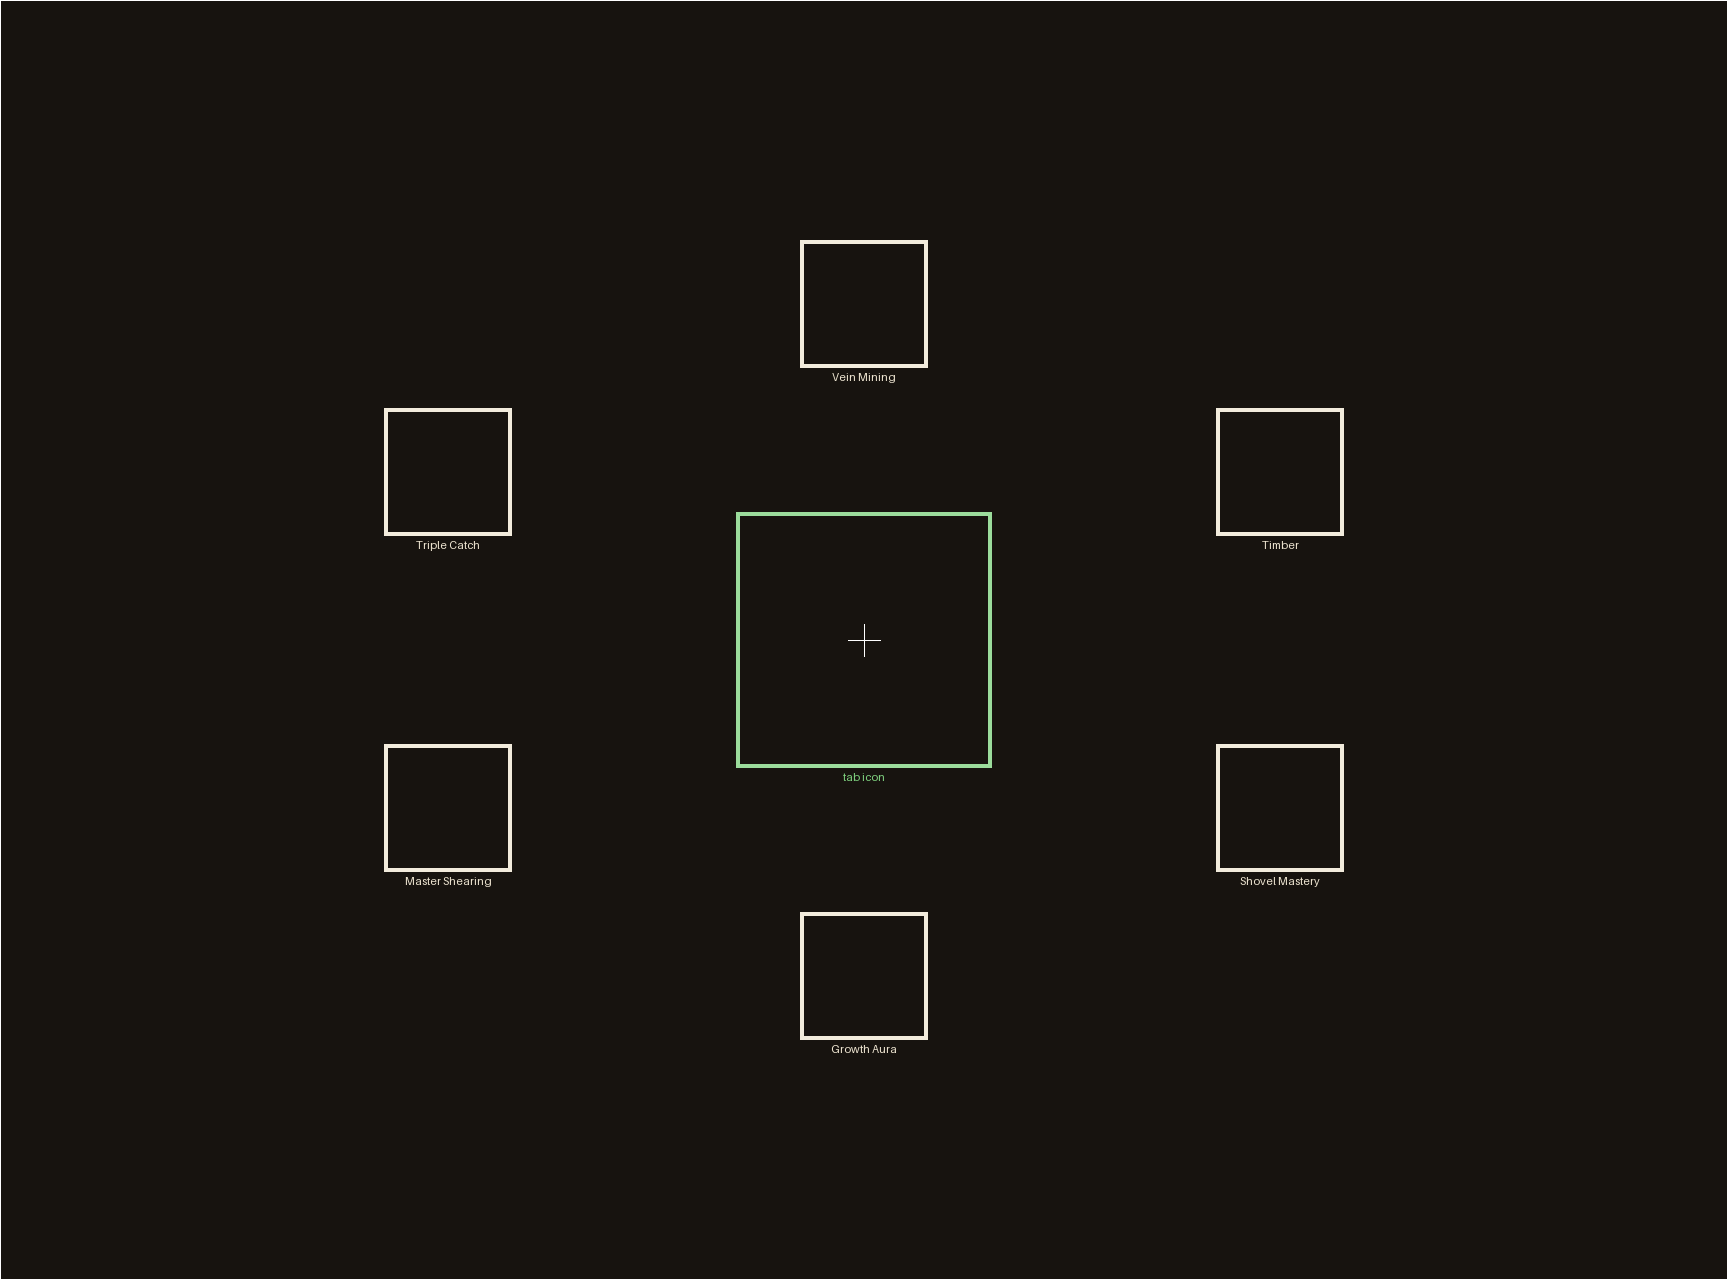
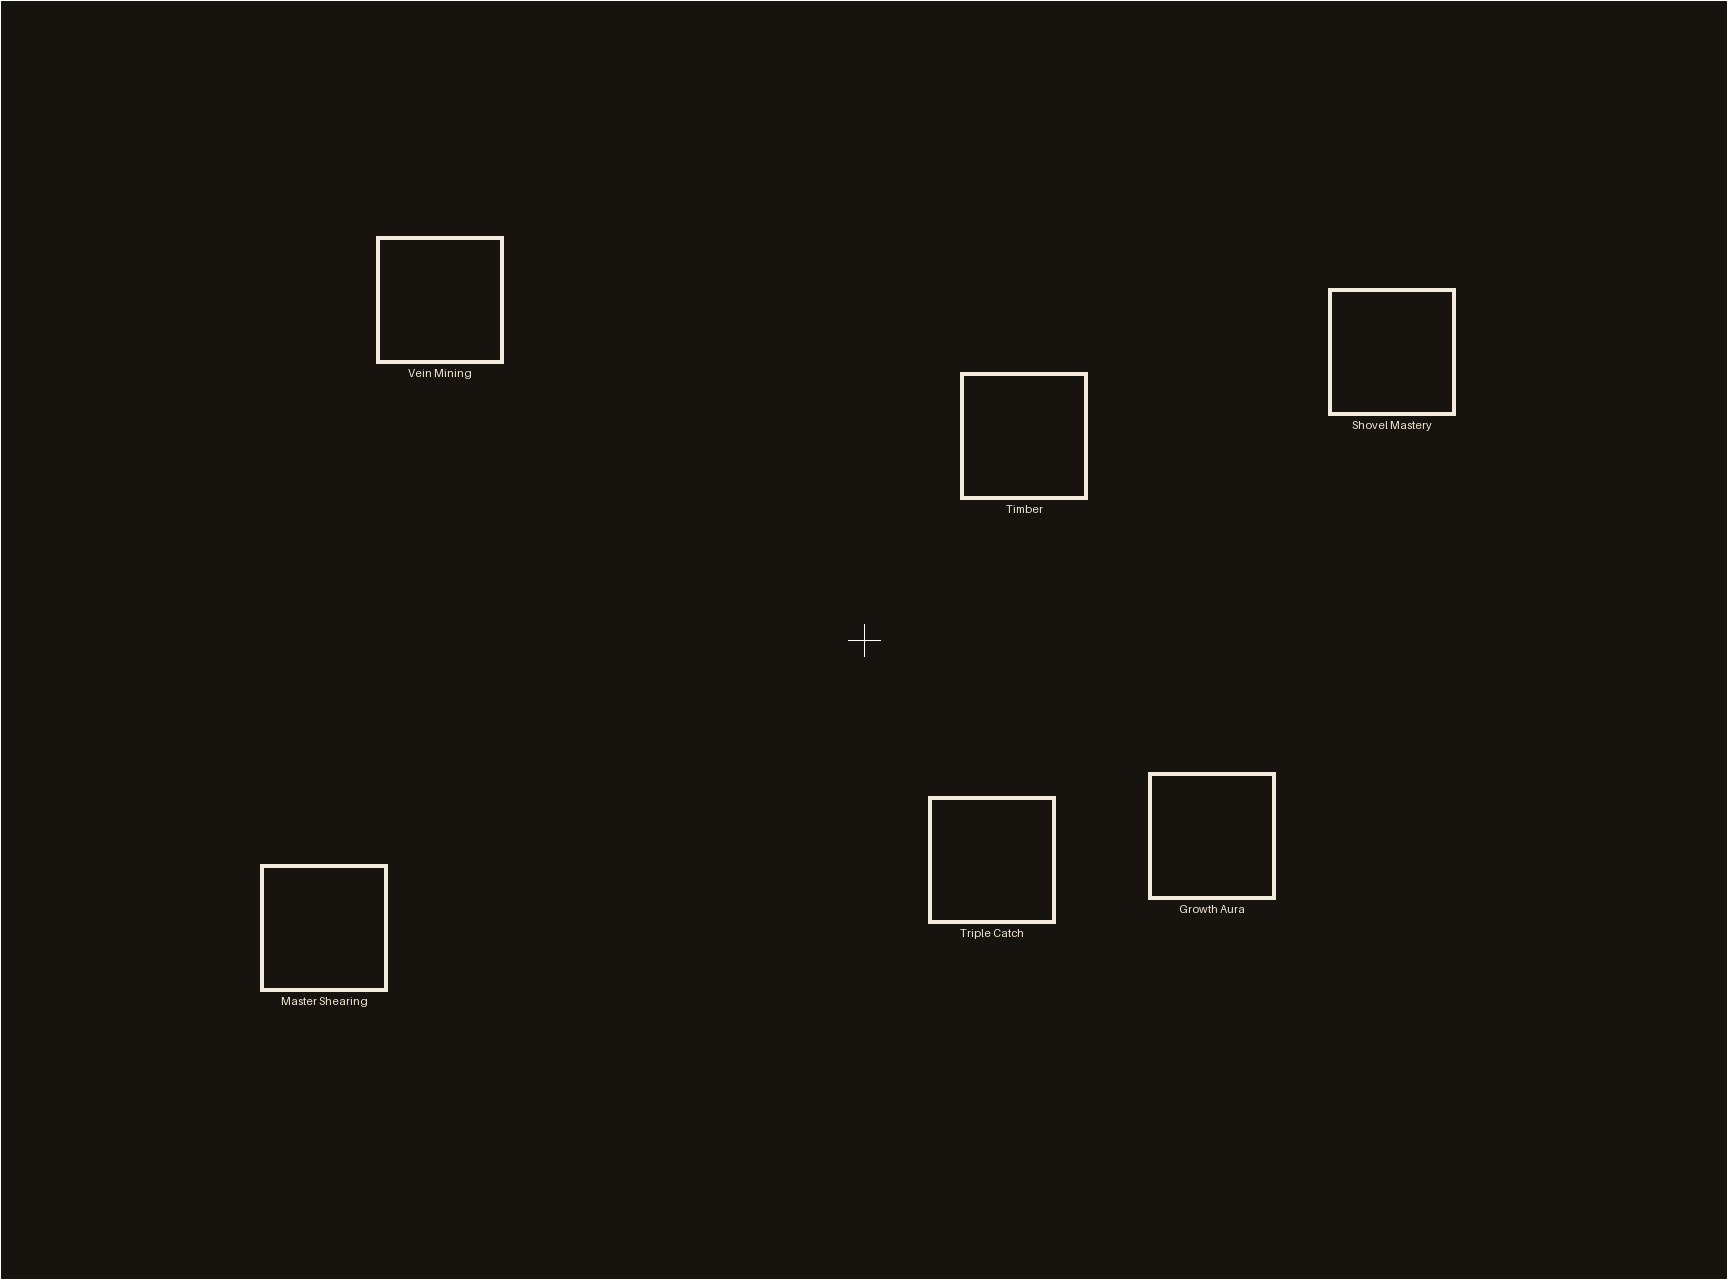
Hub: Utility/Armor/Misc Majors scattered over the page instead of a ring
Big icons spread over the whole 432x320 page: about one grid cell per Major,
spare cells spread out and shifted row to row, each Major nudged inside its cell
by an amount fixed by its id (stable, never overlapping). Templates redrawn.

Claude-Session: https://claude.ai/code/session_011H4pCWwvStbR6tnDaE5M5J

diff --git a/src/client/java/com/freshorangeslices/bloomlevelup/client/gui/HubScreen.java b/src/client/java/com/freshorangeslices/bloomlevelup/client/gui/HubScreen.java
@@ -55,7 +55,7 @@ import com.freshorangeslices.bloomlevelup.progression.ProgressionService;
  *   (Heavy Hands, Catch!, ...) on the line between the middle and that weapon, and the rest of the universal
  *   Majors in a row along the bottom. Lines run from the middle to each weapon and from each weapon to its
  *   Majors, and turn red when a Major on them is active;</li>
- *   <li>other categories put bigger icons in a ring around the category's own icon, filling the page.</li>
+ *   <li>other categories scatter bigger icons over the whole page.</li>
  * </ul>
  * A compact stats window sits in the top-left corner and folds away to give the Majors more room.
  *
@@ -105,10 +105,10 @@ public final class HubScreen extends Screen {
 	 */
 	public static final int BOARD_W = 432;
 	public static final int BOARD_H = 320;
-	/** Major icons on tabs without weapon trees: bigger (half the 64-pixel art, so they stay sharp) and in a ring. */
+	/** Major icons on tabs without weapon trees: bigger (half the 64-pixel art, so they stay sharp), scattered over the page. */
 	private static final int BIG_ICON = 32;
-	/** The tab's own icon in the middle of that ring. */
-	private static final int EMBLEM = 64;
+	/** Space kept clear along the page's edges by the scattered icons. */
+	private static final int SCATTER_MARGIN = 36;
 	/** Shown until the art exists: the advancements screen's stone, darkened. */
 	private static final Identifier FALLBACK_TILE = Identifier.withDefaultNamespace("textures/gui/advancements/backgrounds/stone.png");
 	private static final String COPYCAT = BloomLevelUp.key("combat/copycat");
@@ -140,8 +140,6 @@ public final class HubScreen extends Screen {
 	/** The current tab's nodes and lines, in canvas coordinates. */
 	private final List<Node> nodes = new ArrayList<>();
 	private final List<Link> links = new ArrayList<>();
-	/** The tab's own icon, drawn in the middle of a ring layout (null: none, or a tree). */
-	private Identifier emblem;
 	/** Where the canvas origin (the middle of the page) is on screen. */
 	private double panX;
 	private double panY;
@@ -404,13 +402,11 @@ public final class HubScreen extends Screen {
 		links.clear();
 		List<MajorDefinition> majors = ClientBloomState.definitions().majorsIn(category.id());
 
-		emblem = null;
-
 		if (majors.stream().anyMatch(major -> major.group().isPresent())) {
 			treeLayout(majors);
 			centerOnPage();
 		} else {
-			ringLayout(category, majors);
+			scatterLayout(majors);
 		}
 	}
 
@@ -538,22 +534,41 @@ public final class HubScreen extends Screen {
 	}
 
 	/**
-	 * Tabs without weapon trees: big icons in a ring (clockwise from the top, in the Majors' order) around the
-	 * tab's own icon, sized to fill the page. More than 18 Majors split into an inner and an outer ring.
+	 * Tabs without weapon trees: big icons scattered over the whole page. The page is split into a grid with
+	 * about as many cells as Majors (spare cells spread out as gaps), and each Major sits somewhere in its cell,
+	 * nudged by an amount fixed by its id, so the scatter looks loose but never overlaps and stays the same
+	 * every time (the background templates show it).
 	 */
-	private void ringLayout(CategoryDefinition category, List<MajorDefinition> majors) {
+	private void scatterLayout(List<MajorDefinition> majors) {
 		int count = majors.size();
-		int inner = count > 18 ? count / 3 : 0;
-		ring(majors.subList(0, inner), 104.0, 70.0);
-		ring(majors.subList(inner, count), count - inner <= 8 ? 120.0 : 172.0, count - inner <= 8 ? 84.0 : 118.0);
-		Identifier icon = IconTextures.resolve(category.icon());
-		emblem = icon == IconTextures.PLACEHOLDER ? null : icon;
-	}
 
-	private void ring(List<MajorDefinition> majors, double rx, double ry) {
-		for (int k = 0; k < majors.size(); k++) {
-			double angle = -Math.PI / 2.0 + 2.0 * Math.PI * k / majors.size();
-			nodes.add(new Node(majors.get(k), null, (int) Math.round(Math.cos(angle) * rx), (int) Math.round(Math.sin(angle) * ry), false, BIG_ICON));
+		if (count == 0) {
+			return;
+		}
+
+		double areaW = BOARD_W - 2 * SCATTER_MARGIN;
+		double areaH = BOARD_H - 2 * SCATTER_MARGIN;
+		int columns = Math.max(1, (int) Math.ceil(Math.sqrt(count * areaW / areaH)));
+		int rows = (int) Math.ceil(count / (double) columns);
+		int cells = columns * rows;
+		double cellW = areaW / columns;
+		double cellH = areaH / rows;
+		double nudgeX = Math.max(0.0, (cellW - BIG_ICON - 6) / 2.0);
+		double nudgeY = Math.max(0.0, (cellH - BIG_ICON - 6) / 2.0);
+
+		int shift = columns > 2 ? 2 : 1;
+
+		for (int k = 0; k < count; k++) {
+			// Spare cells fall every so often along the rows; shifting each row keeps them from lining up into an empty column.
+			int cell = (int) Math.floor((k + 0.5) * cells / count);
+			int row = cell / columns;
+			int column = (cell % columns + row * shift) % columns;
+			double x = -areaW / 2.0 + (column + 0.5) * cellW;
+			double y = -areaH / 2.0 + (row + 0.5) * cellH;
+			int hash = majors.get(k).id().hashCode();
+			x += ((hash & 0xFFFF) / 65535.0 * 2.0 - 1.0) * nudgeX;
+			y += (((hash >>> 16) & 0xFFFF) / 65535.0 * 2.0 - 1.0) * nudgeY;
+			nodes.add(new Node(majors.get(k), null, (int) Math.round(x), (int) Math.round(y), false, BIG_ICON));
 		}
 	}
 
@@ -764,12 +779,6 @@ public final class HubScreen extends Screen {
 					line(g, screenX(link.x0()), screenY(link.y0()), screenX(link.x1()), screenY(link.y1()), lit ? LINE_ON : LINE_OFF);
 				}
 			}
-		}
-
-		// The tab's own icon in the middle of a ring.
-		if (emblem != null) {
-			g.blit(RenderPipelines.GUI_TEXTURED, emblem, screenX(0) - EMBLEM / 2, screenY(0) - EMBLEM / 2, 0.0F, 0.0F, EMBLEM, EMBLEM,
-					IconTextures.SOURCE_SIZE, IconTextures.SOURCE_SIZE, IconTextures.SOURCE_SIZE, IconTextures.SOURCE_SIZE, 0xFFFFFFFF);
 		}
 
 		for (int i = 0; i < nodes.size(); i++) {

diff --git a/docs/art/hub-templates/make_templates.py b/docs/art/hub-templates/make_templates.py
@@ -1,5 +1,5 @@
 """Draws a guide for each Skill Hub tab's background picture: the 432x320 page, with every Major, weapon
-node and the tab's own icon where the hub will draw them. Mirrors HubScreen's layout (keep them in step).
+node where the hub will draw them. Mirrors HubScreen's layout (keep them in step).
 
     python3 docs/art/hub-templates/make_templates.py
 
@@ -18,7 +18,7 @@ LANG = json.loads((ROOT / 'src/main/resources/assets/bloomlevelup/lang/en_us.jso
 OUT = pathlib.Path(__file__).resolve().parent
 
 # HubScreen constants
-CELL, ICON, BIG_ICON, EMBLEM = 28, 22, 32, 64
+CELL, ICON, BIG_ICON, SCATTER_MARGIN = 28, 22, 32, 36
 BOARD_W, BOARD_H = 432, 320
 NODE_GLOW = 3
 WEAPON_RX, WEAPON_RY, MAJOR_RX, MAJOR_RY = 110.0, 72.0, 178.0, 104.0
@@ -29,6 +29,16 @@ SPOKE_FRACTION = 0.55
 def jround(x):
     """Java's Math.round."""
     return math.floor(x + 0.5)
+
+
+def java_hash(text):
+    """Java's String.hashCode, as 32 unsigned bits."""
+    h = 0
+
+    for ch in text:
+        h = (31 * h + ord(ch)) & 0xFFFFFFFF
+
+    return h
 
 
 def qualify(ref):
@@ -60,17 +70,29 @@ def layout(majors):
     nodes, lines = [], []
 
     if not any(m['group'] for m in majors):
-        # HubScreen.ringLayout: big icons in a ring (two rings past 18) around the tab's icon.
-        def ring(members, rx, ry):
-            for k, m in enumerate(members):
-                angle = -math.pi / 2.0 + 2.0 * math.pi * k / len(members)
-                nodes.append(('big', m['id'], jround(math.cos(angle) * rx), jround(math.sin(angle) * ry)))
+        # HubScreen.scatterLayout: a grid with about one cell per Major (spare cells spread out as gaps),
+        # each Major nudged inside its cell by an amount fixed by its id (Java's String.hashCode).
+        count = len(majors)
+        area_w, area_h = BOARD_W - 2 * SCATTER_MARGIN, BOARD_H - 2 * SCATTER_MARGIN
+        columns = max(1, math.ceil(math.sqrt(count * area_w / area_h)))
+        rows = math.ceil(count / columns)
+        cells = columns * rows
+        cell_w, cell_h = area_w / columns, area_h / rows
+        nudge_x, nudge_y = max(0.0, (cell_w - BIG_ICON - 6) / 2.0), max(0.0, (cell_h - BIG_ICON - 6) / 2.0)
 
-        inner = len(majors) // 3 if len(majors) > 18 else 0
-        ring(majors[:inner], 104.0, 70.0)
-        outer = len(majors) - inner
-        ring(majors[inner:], 120.0 if outer <= 8 else 172.0, 84.0 if outer <= 8 else 118.0)
-        nodes.append(('emblem', None, 0, 0))
+        shift = 2 if columns > 2 else 1
+
+        for k, m in enumerate(majors):
+            cell = math.floor((k + 0.5) * cells / count)
+            row = cell // columns
+            column = (cell % columns + row * shift) % columns
+            x = -area_w / 2.0 + (column + 0.5) * cell_w
+            y = -area_h / 2.0 + (row + 0.5) * cell_h
+            h = java_hash(m['id'])
+            x += ((h & 0xFFFF) / 65535.0 * 2.0 - 1.0) * nudge_x
+            y += (((h >> 16) & 0xFFFF) / 65535.0 * 2.0 - 1.0) * nudge_y
+            nodes.append(('big', m['id'], jround(x), jround(y)))
+
         return nodes, lines
 
     trees, middle, universal, near = {}, [], [], {}
@@ -136,8 +158,6 @@ def layout(majors):
 
 
 def name(kind, ref):
-    if kind == 'emblem':
-        return 'tab icon'
     if kind == 'weapon':
         return ref.rsplit('/', 1)[1].capitalize()
     key = 'bloom.major.' + ref.replace(':', '.').replace('/', '.') + '.name'
@@ -168,8 +188,8 @@ def make(tab):
         font = ImageFont.load_default(size=11) if labels else None
 
         for kind, ref, x, y in nodes:
-            half = {'weapon': 13, 'center': 13, 'big': BIG_ICON // 2, 'emblem': EMBLEM // 2}.get(kind, ICON // 2)
-            colour = {'weapon': (229, 147, 63, 230), 'center': (224, 69, 58, 230), 'emblem': (127, 210, 127, 200)}.get(kind, (239, 230, 210, 200))
+            half = {'weapon': 13, 'center': 13, 'big': BIG_ICON // 2}.get(kind, ICON // 2)
+            colour = {'weapon': (229, 147, 63, 230), 'center': (224, 69, 58, 230)}.get(kind, (239, 230, 210, 200))
             box = [s(px(x) - half), s(py(y) - half), s(px(x) + half) - 1, s(py(y) + half) - 1]
             draw.rectangle(box, outline=colour, width=scale)
 

diff --git a/docs/DECISIONS.md b/docs/DECISIONS.md
@@ -306,7 +306,7 @@ Rows above that these replace are marked "(see Playtest round 1)".
 
 | Topic | Decision | Where to change |
 |---|---|---|
-| Layout (confirmed) | Every tab is one 432×320 page (its background picture's size), centred in the space right of the stats window (all of it while the window is folded). Where the page is bigger than that view it can be dragged or scrolled, but only until its edges show (confirmed: keep movement small); where it fits it doesn't move. Combat is a tree centred on the page: Master of Arms in the middle, the weapons on an inner ring clockwise from the top, each weapon's Majors in a short row just outside it. Universal Majors that need a weapon (Batter Up! and Aura Sword: Sword; Heavy Hands: Axe; Catch!: Trident; Death From Above: Mace) sit on the line between the middle and that weapon (confirmed); the other universal Majors in rows of up to 13 along the bottom. Weapon names sit on the side toward the middle. Utility, Armor and Misc (confirmed: fill the page) put 32-pixel icons (half the 64-pixel art, so sharp) in a ring around the tab's own icon (64 pixels, from the category's `icon`); more than 18 Majors split into two rings | `HubScreen.treeLayout`, `ringLayout`, `clampPan` |
+| Layout (confirmed) | Every tab is one 432×320 page (its background picture's size), centred in the space right of the stats window (all of it while the window is folded). Where the page is bigger than that view it can be dragged or scrolled, but only until its edges show (confirmed: keep movement small); where it fits it doesn't move. Combat is a tree centred on the page: Master of Arms in the middle, the weapons on an inner ring clockwise from the top, each weapon's Majors in a short row just outside it. Universal Majors that need a weapon (Batter Up! and Aura Sword: Sword; Heavy Hands: Axe; Catch!: Trident; Death From Above: Mace) sit on the line between the middle and that weapon (confirmed); the other universal Majors in rows of up to 13 along the bottom. Weapon names sit on the side toward the middle. Utility, Armor and Misc (confirmed: fill the page, scattered, no circle) scatter 32-pixel icons (half the 64-pixel art, so sharp) over the page: a grid with about one cell per Major (spare cells spread out and shifted row to row), each Major nudged inside its cell by an amount fixed by its id, so it looks loose but never overlaps and never changes | `HubScreen.treeLayout`, `scatterLayout`, `clampPan` |
 | Lines (confirmed: red when active) | Middle → each weapon and weapon → each of its Majors. Red while a Major on that line is on, dim otherwise. No lines to universal Majors: their prerequisites stay hidden | `HubScreen.drawCanvas` |
 | Stats window (confirmed) | Compact and foldable (the arrow): + above − to the left of each icon; the icon is the on/off switch with the same green/red corner dot as the Majors; Mode and Buy point stacked under the rows | `HubScreen.addStatsWindow`, `MiniButton`, `StatIcon` |
 | Background art (confirmed: 432×320 for every tab) | `textures/gui/hub/background_<tab>.png` (combat, utility, armor, misc; `background.png` for any tab without one), 432×320, drawn pixel for pixel (1 picture pixel = 1 GUI pixel, like vanilla GUI art) and centred on the page; other sizes still work, centred the same way. Guides showing every node in `docs/art/hub-templates/` (`make_templates.py` redraws them when Majors change). Until a tab has art: the advancements screen's stone, darkened, filling the page | `HubScreen.drawBackground`, `docs/art/hub-templates/` |
